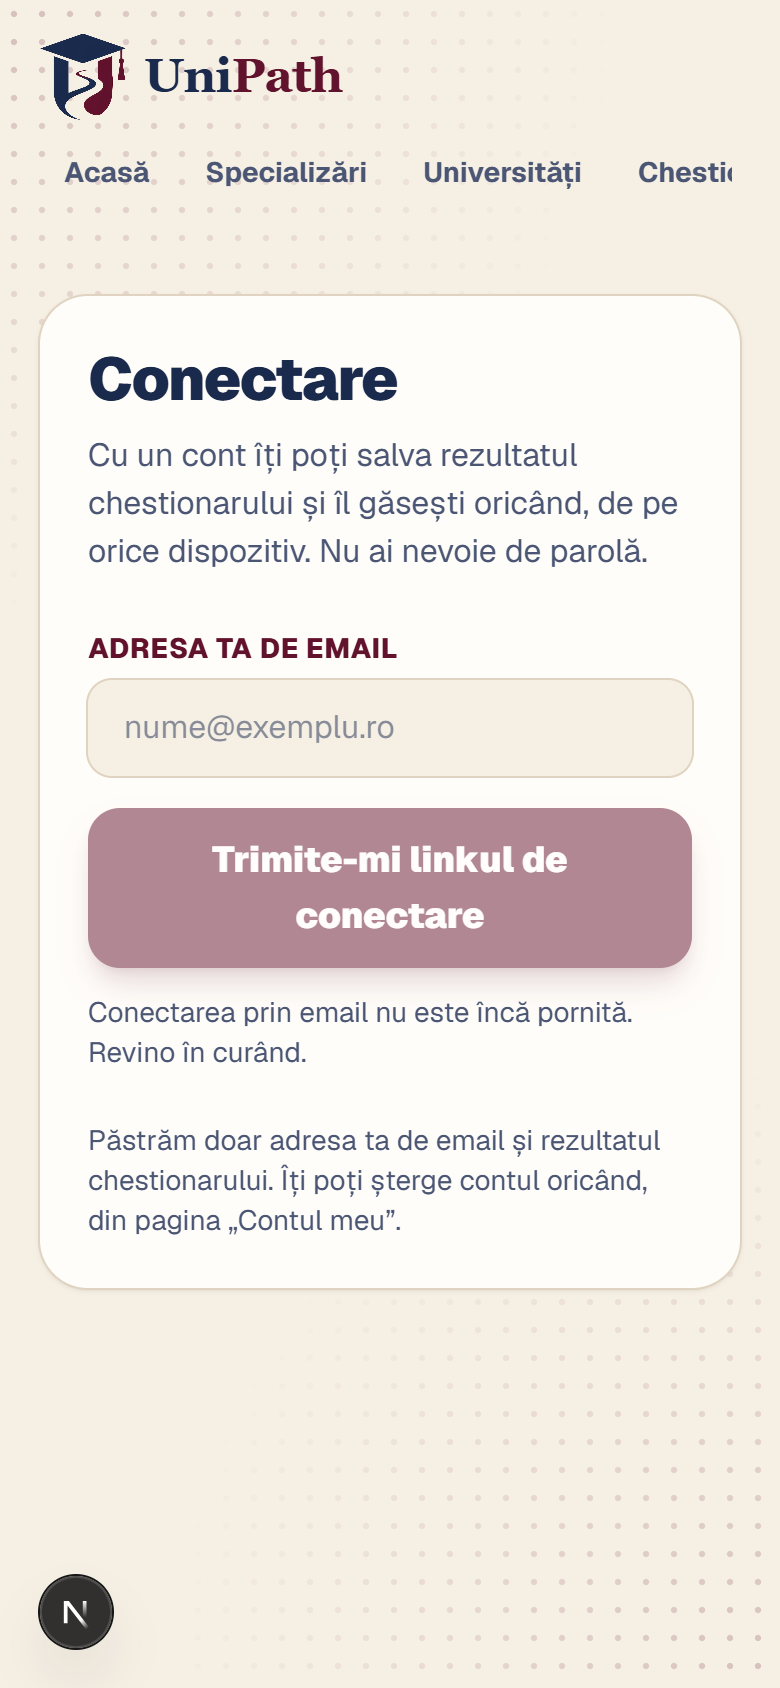
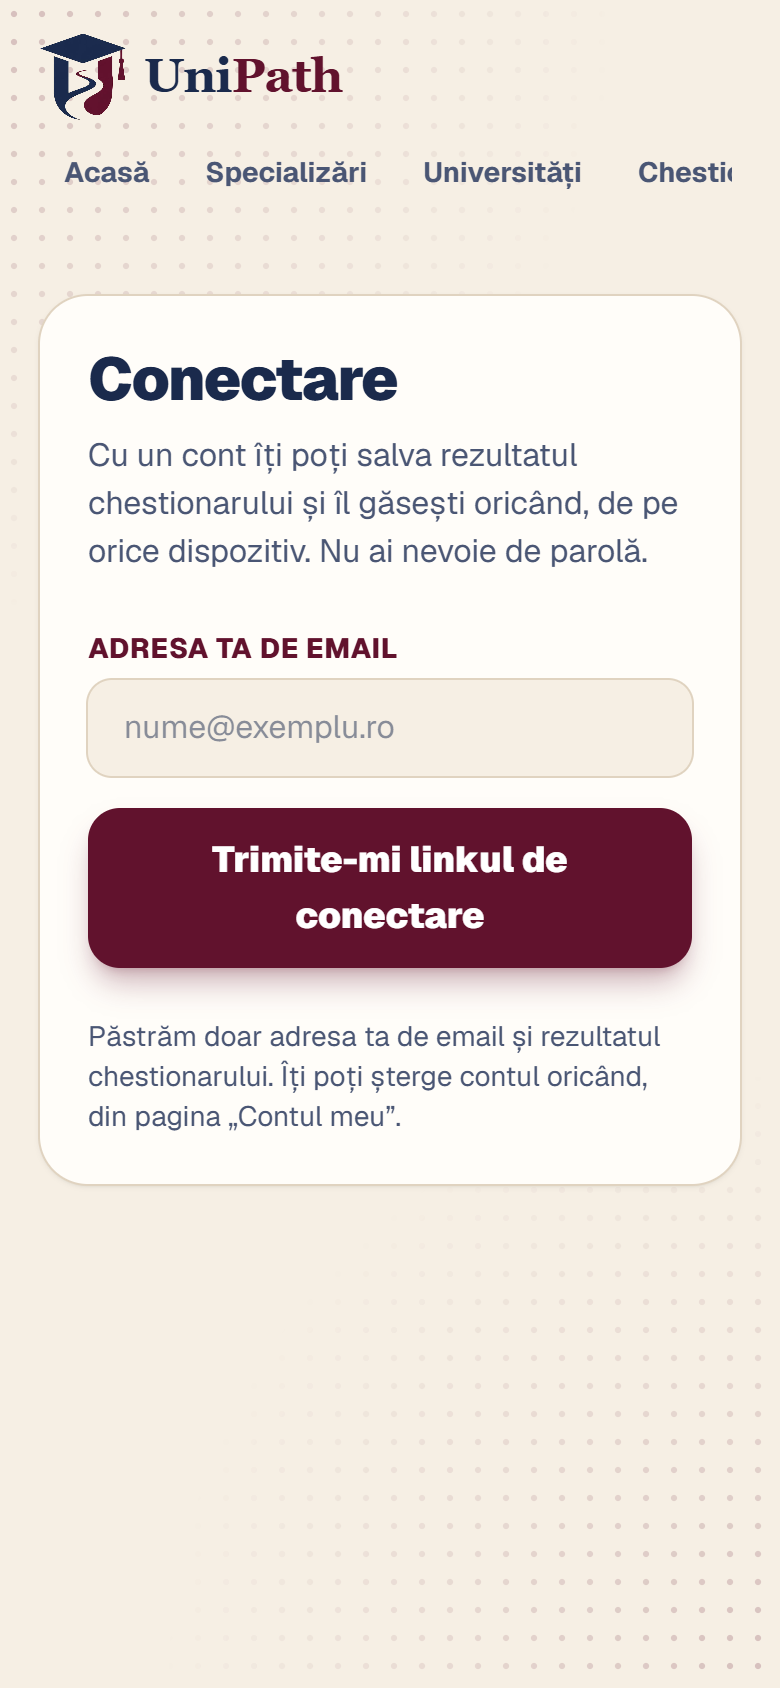
feat: privacy page; generate route types before the CI type check

Changed region(s): [[0.0308, 0.4621, 0.9538, 0.7393], [0.0308, 0.9242, 0.1538, 0.9858]]

diff --git a/apps/web/app/confidentialitate/page.tsx b/apps/web/app/confidentialitate/page.tsx
@@ -1,0 +1,90 @@
+// Privacy page: in plain Romanian, what UniPath stores, why, who processes it and how to delete it. Working draft until a legal check.
+import type { Metadata } from "next";
+import Link from "next/link";
+import { Shell } from "@/components/Shell";
+
+export const metadata: Metadata = {
+  title: "Confidențialitate — UniPath",
+  description: "Ce date păstrează UniPath, de ce și cum le poți șterge.",
+};
+
+// Set before launch: the address people can write to about their data. Empty = the page says it is coming.
+const CONTACT_EMAIL = "";
+// True until an adult who knows the legal side has checked this text.
+const DRAFT = true;
+
+function Block({ title, children }: { title: string; children: React.ReactNode }) {
+  return (
+    <section className="mt-6 rounded-3xl bg-card p-6 shadow-sm ring-1 ring-line">
+      <h2 className="text-2xl font-black tracking-tight text-ink">{title}</h2>
+      <div className="mt-2 space-y-2 text-ink-soft">{children}</div>
+    </section>
+  );
+}
+
+export default function PrivacyPage() {
+  return (
+    <Shell>
+      <h1 className="mt-4 text-4xl font-black tracking-tighter text-ink">Confidențialitate</h1>
+      <p className="mt-2 text-ink-soft">Pe scurt: păstrăm cât mai puține date, nu le vindem și le poți șterge oricând.</p>
+      {DRAFT && (
+        <p className="mt-4 rounded-2xl bg-primary-tint p-4 text-sm font-bold text-primary-dark" role="note">
+          Versiune de lucru. Textul urmează să fie verificat din punct de vedere juridic înainte de lansare.
+        </p>
+      )}
+
+      <Block title="Dacă nu îți faci cont">
+        <p>Poți folosi tot site-ul fără cont. Răspunsurile la chestionar și pozele cu diplome pe care le adaugi rămân pe dispozitivul tău și dispar când închizi pagina. Nu ajung la noi.</p>
+      </Block>
+
+      <Block title="Dacă îți faci cont">
+        <p>Păstrăm doar:</p>
+        <ul className="list-disc space-y-1 pl-5 marker:text-primary">
+          <li>adresa ta de email, ca să te poți conecta;</li>
+          <li>rezultatul chestionarului pe care alegi să-l salvezi: profilul de liceu, răspunsurile, unde vrei să studiezi și cele trei domenii potrivite;</li>
+          <li>datele tehnice ale conectării (când te-ai conectat și până când e valabilă sesiunea).</li>
+        </ul>
+        <p>Nu îți cerem numele, școala, vârsta sau adresa. Nu folosim parole: te conectezi cu un link primit pe email sau cu Google, dacă alegi asta.</p>
+        <p>Dacă ești minor, vorbește cu un părinte sau cu tutorele tău înainte să îți faci cont.</p>
+      </Block>
+
+      <Block title="Dacă scrii o părere ca student">
+        <p>Păstrăm ce scrii în formular: numele, universitatea, facultatea, anul (dacă îl treci) și textul. După ce echipa aprobă părerea, acestea apar public pe site. Formularul este pentru persoane de cel puțin 18 ani.</p>
+        <p>Dacă vrei ca părerea ta să fie scoasă sau corectată, scrie-ne și o facem.</p>
+      </Block>
+
+      <Block title="Cum ștergi datele">
+        <p>
+          Din pagina <Link href="/cont" className="font-bold text-primary underline underline-offset-2">Contul meu</Link> poți șterge rezultatul salvat sau tot contul. Ștergerea contului scoate adresa de email, rezultatul și datele de conectare și nu se poate anula.
+        </p>
+      </Block>
+
+      <Block title="Cine ne ajută să ținem site-ul">
+        <p>Folosim câteva servicii, fiecare doar pentru rolul lui:</p>
+        <ul className="list-disc space-y-1 pl-5 marker:text-primary">
+          <li><span className="font-bold text-ink">Convex</span> — baza de date în care stau conturile, rezultatele salvate și părerile;</li>
+          <li><span className="font-bold text-ink">Resend</span> — trimite emailul cu linkul de conectare;</li>
+          <li><span className="font-bold text-ink">Cloudflare Turnstile</span> — verifică, la formularul de păreri, că nu e un robot;</li>
+          <li><span className="font-bold text-ink">Vercel</span> — găzduiește site-ul;</li>
+          <li><span className="font-bold text-ink">Google</span> — doar dacă alegi „Continuă cu Google”.</li>
+        </ul>
+        <p>Nu avem reclame și nu folosim unelte care te urmăresc de pe un site pe altul.</p>
+      </Block>
+
+      <Block title="Cookie-uri și date păstrate în browser">
+        <p>Când ești conectat, site-ul păstrează în browser un cookie de sesiune, ca să te recunoască. Fără el nu ai putea rămâne conectat. Verificarea anti-robot de la formularul de păreri poate folosi propriile cookie-uri tehnice.</p>
+        <p>Dacă apeși „Salvează în contul meu” înainte să te conectezi, rezultatul stă pe dispozitivul tău până termini conectarea, apoi e șters de acolo.</p>
+      </Block>
+
+      <Block title="Contact">
+        {CONTACT_EMAIL ? (
+          <p>
+            Pentru orice întrebare despre datele tale, scrie-ne la <a href={`mailto:${CONTACT_EMAIL}`} className="font-bold text-primary underline underline-offset-2">{CONTACT_EMAIL}</a>.
+          </p>
+        ) : (
+          <p>Adresa de contact pentru întrebări despre datele tale va fi adăugată aici înainte de lansare.</p>
+        )}
+      </Block>
+    </Shell>
+  );
+}

diff --git a/apps/web/app/conectare/page.tsx b/apps/web/app/conectare/page.tsx
@@ -2,6 +2,7 @@
 // Sign-in page: the student types an email and receives a sign-in link; a Google button appears when Google sign-in is configured. No passwords.
 import { useAuthActions } from "@convex-dev/auth/react";
 import { useQuery } from "convex/react";
+import Link from "next/link";
 import { useState } from "react";
 import { Shell } from "@/components/Shell";
 import { api } from "@/convex/_generated/api";
@@ -96,7 +97,8 @@ export default function SignInPage() {
         )}
 
         <p className="mt-6 text-sm text-ink-soft" role="note">
-          Păstrăm doar adresa ta de email și rezultatul chestionarului. Îți poți șterge contul oricând, din pagina „Contul meu”.
+          Păstrăm doar adresa ta de email și rezultatul chestionarului. Îți poți șterge contul oricând, din pagina „Contul meu”.{" "}
+          <Link href="/confidentialitate" className="font-bold text-primary underline underline-offset-2">Află mai multe</Link>
         </p>
       </div>
     </Shell>

diff --git a/apps/web/components/Shell.tsx b/apps/web/components/Shell.tsx
@@ -1,4 +1,4 @@
-// Page frame shared by all screens: header with the UniPath logo and three-dots motif, and a centered content column.
+// Page frame shared by all screens: header with the UniPath logo, a centered content column and a footer with the privacy link.
 import Link from "next/link";
 import type { ReactNode } from "react";
 import { NavLinks } from "./NavLinks";
@@ -19,6 +19,11 @@ export function Shell({ children, wide = false }: { children: ReactNode; wide?: 
         <NavLinks />
       </header>
       <main className={`mx-auto w-full flex-1 px-5 pb-16 ${wide ? "max-w-5xl" : "max-w-2xl"}`}>{children}</main>
+      <footer className="mx-auto w-full max-w-5xl px-5 pb-8 text-center text-sm text-ink-soft">
+        <Link href="/confidentialitate" className="inline-flex min-h-11 items-center font-bold underline decoration-primary/40 underline-offset-2 hover:text-primary-dark">
+          Confidențialitate
+        </Link>
+      </footer>
     </div>
   );
 }

diff --git a/apps/web/app/studenti/parere/page.tsx b/apps/web/app/studenti/parere/page.tsx
@@ -124,7 +124,9 @@ export default function ReviewFormPage() {
         </div>
         <label className="flex cursor-pointer items-start gap-3 rounded-2xl bg-paper p-4 ring-1 ring-line">
           <input type="checkbox" checked={consent} onChange={(e) => setConsent(e.target.checked)} className="mt-1 h-5 w-5 shrink-0 accent-primary" />
-          <span className="text-sm text-ink">Sunt de acord ca numele meu și părerea mea să fie publicate pe UniPath. Am cel puțin 18 ani.</span>
+          <span className="text-sm text-ink">Sunt de acord ca numele meu și părerea mea să fie publicate pe UniPath. Am cel puțin 18 ani.{" "}
+            <Link href="/confidentialitate" className="font-bold text-primary underline underline-offset-2" target="_blank">Ce date păstrăm</Link>
+          </span>
         </label>
         <Turnstile onToken={onToken} />
         {error && <p className="text-sm font-bold text-primary-dark" role="alert">{error}</p>}

diff --git a/docs/LEDGER.md b/docs/LEDGER.md
@@ -21,6 +21,14 @@ lista de commit-uri de la final se reface singură.
 - Urmează: pasul următor
 -->
 
+### 2026-10-07 01:14 — producție, pasul 5: pagina de confidențialitate; scanările de pe GitHub
+- Cerut: pasul 5 din plan (confidențialitate), local; verificarea că scanările automate rulează pe GitHub
+- Făcut: pagina `/confidentialitate`, în română simplă: ce nu păstrăm fără cont, ce păstrăm cu cont (email, rezultatul salvat, datele conectării), ce păstrăm la o părere, cum se șterg datele, ce servicii folosim (Convex, Resend, Cloudflare Turnstile, Vercel, Google), cookie-uri, contact; marcată vizibil „Versiune de lucru” până la verificarea juridică; adresa de contact e lăsată goală intenționat (pagina spune că va fi adăugată); link în subsolul tuturor paginilor, pe pagina de conectare și lângă bifa de acord din formularul de păreri. Pe GitHub: prima rulare a scanărilor a arătat căutarea de chei în tot istoricul TRECUTĂ și CodeQL TRECUT, iar verificarea tipurilor PICATĂ din cauza configurării (lipsea generarea tipurilor Next.js înainte de verificare); am adăugat pasul lipsă
+- Fișiere: `apps/web/app/confidentialitate/page.tsx` (nou), `apps/web/components/Shell.tsx`, `apps/web/app/conectare/page.tsx`, `apps/web/app/studenti/parere/page.tsx`, `.github/workflows/security.yml`
+- Poartă: TRECUT (build, 88 de teste, pornire). Într-un browser separat, pe laptop și la lățime de telefon: linkul din subsol duce la pagină, cele 7 secțiuni apar, nota „Versiune de lucru” e vizibilă, linkurile de pe conectare și din formular există; fără erori. Scanările de pe GitHub după reparație: de văzut la următoarea urcare
+- De făcut de un om înainte de lansare: verificarea juridică a textului (minori, acordul părinților, vârsta de la care un elev își poate da singur acordul), adresa de contact, unde ține Convex datele, acordurile cu furnizorii
+- Urmează: „nivelul următor”, cu echipa: cheie Resend nouă și domeniu, Google, chei Turnstile reale, lista de administratori, baza de producție, adresă de probă
+
 ### 2026-10-07 01:11 — producție, pasul 4: antete de securitate, scanări automate, pachet de conectare actualizat
 - Cerut: pasul 4 din plan, local: antete de securitate, scanare de chei și pachete la fiecare salvare, verificare de cod
 - Făcut: (1) politică de conținut (CSP) pusă la fiecare cerere în `proxy.ts`: scripturile rulează doar cu un cod unic pe cerere, conexiunile sunt permise doar către site, baza Convex și verificarea anti-robot, site-ul nu poate fi pus în ramă pe alt site; plus antetele `X-Content-Type-Options`, `Referrer-Policy`, `X-Frame-Options`, `Permissions-Policy`, `Strict-Transport-Security` în `next.config.ts`. (2) Pe GitHub, la fiecare salvare și săptămânal: căutare de chei scăpate în tot istoricul (gitleaks), verificarea pachetelor (`npm audit`), verificarea tipurilor și testele; scanare de cod CodeQL; Dependabot pentru actualizări de pachete. (3) `@auth/core` trecut de la 0.41.1 la 0.41.3: verificarea de pachete a găsit o vulnerabilitate critică cunoscută în versiunea veche (printre altele, la validarea adreselor de email)
@@ -393,6 +401,7 @@ lista de commit-uri de la final se reface singură.
 ## Commit-uri (automat)
 
 <!-- commits:start -->
+- 2026-10-07 01:11 `cd08d1a` feat: security headers and CSP, CI security scans, patched auth package
 - 2026-10-06 01:59 `e44ee5f` docs: record where the production work stops for the day
 - 2026-10-06 01:15 `20dc009` feat: public review form with bot check and rate limit, and the moderation page
 - 2026-10-06 01:05 `a21a479` feat: development-only sign-in links in the function log; sign-in verified end to end
@@ -422,5 +431,4 @@ lista de commit-uri de la final se reface singură.
 - 2026-10-04 22:45 `9ca0e28` feat: ask the high-school profile as the first step of the test
 - 2026-10-04 22:30 `564932a` feat: keep specializations only on their own page, not on the home page
 - 2026-10-04 18:02 `97391c5` docs: record the published decluttered version in the ledger
-- 2026-10-04 17:57 `9a716e4` feat: declutter pages - short home, specialization pages, collapsed result cards, compact filters and sheet
 <!-- commits:end -->

diff --git a/docs/MAP.md b/docs/MAP.md
@@ -68,7 +68,7 @@ _Open only the files listed here; a file's description is its first comment line
 ### .github/workflows  (2 files)
 
 - `codeql.yml` (30) — CodeQL: GitHub's code scanner looks for security bugs in the TypeScript code on every push, pull request and once a week.
-- `security.yml` (45) — Security checks on every push and pull request: leaked secrets, known-vulnerable packages, type errors and the automatic tests (including the access rules).
+- `security.yml` (46) — Security checks on every push and pull request: leaked secrets, known-vulnerable packages, type errors and the automatic tests (including the access rules).
 
 ### apps/web  (11 files)
 
@@ -102,7 +102,11 @@ _Open only the files listed here; a file's description is its first comment line
 
 ### apps/web/app/conectare  (1 files)
 
-- `page.tsx` (105) — Sign-in page: the student types an email and receives a sign-in link; a Google button appears when Google sign-in is configured. No passwords.. Routes: /conectare. Exports: SignInPage
+- `page.tsx` (107) — Sign-in page: the student types an email and receives a sign-in link; a Google button appears when Google sign-in is configured. No passwords.. Routes: /conectare. Exports: SignInPage
+
+### apps/web/app/confidentialitate  (1 files)
+
+- `page.tsx` (91) — Privacy page: in plain Romanian, what UniPath stores, why, who processes it and how to delete it. Working draft until a legal check.. Routes: /confidentialitate. Exports: metadata, PrivacyPage
 
 ### apps/web/app/cont  (1 files)
 
@@ -130,7 +134,7 @@ _Open only the files listed here; a file's description is its first comment line
 
 ### apps/web/app/studenti/parere  (1 files)
 
-- `page.tsx` (138) — Public form where a student writes an opinion about their faculty. No account needed; the opinion appears only after the team approves it.. Routes: /studenti/parere. Exports: ReviewFormPage
+- `page.tsx` (140) — Public form where a student writes an opinion about their faculty. No account needed; the opinion appears only after the team approves it.. Routes: /studenti/parere. Exports: ReviewFormPage
 
 ### apps/web/app/test  (1 files)
 
@@ -159,7 +163,7 @@ _Open only the files listed here; a file's description is its first comment line
 - `NavLinks.tsx` (42) — Header navigation links with the current page highlighted; the last one is "Conectare" or "Contul meu".. Exports: NavLinks
 - `SaveResult.tsx` (59) — "Salvează în contul meu" on the result page: saves the result when the student is signed in, otherwise keeps it on the device and sends them to sign in.. Exports: SaveResult
 - `SearchBox.tsx` (45) — Search box with a magnifier icon; submits to /universitati?q=... or calls onSearch when given.. Exports: SearchBox
-- `Shell.tsx` (40) — Page frame shared by all screens: header with the UniPath logo and three-dots motif, and a centered content column.. Exports: Shell, Notice
+- `Shell.tsx` (45) — Page frame shared by all screens: header with the UniPath logo, a centered content column and a footer with the privacy link.. Exports: Shell, Notice
 - `SpecializationsBrowser.tsx` (82) — /specializari body: a text filter over all categories, domains and specializations; without text it shows the category tiles.. Exports: SpecializationsBrowser
 - `StudentCard.tsx` (38) — One student opinion: photo (or initial), name, faculty and their own words. Used on the students page and on university sheets.. Exports: StudentCard
 - `StudentVoices.tsx` (168) — Student opinions with a search box: type a faculty or university and see every opinion we have from there.. Exports: StudentVoices
